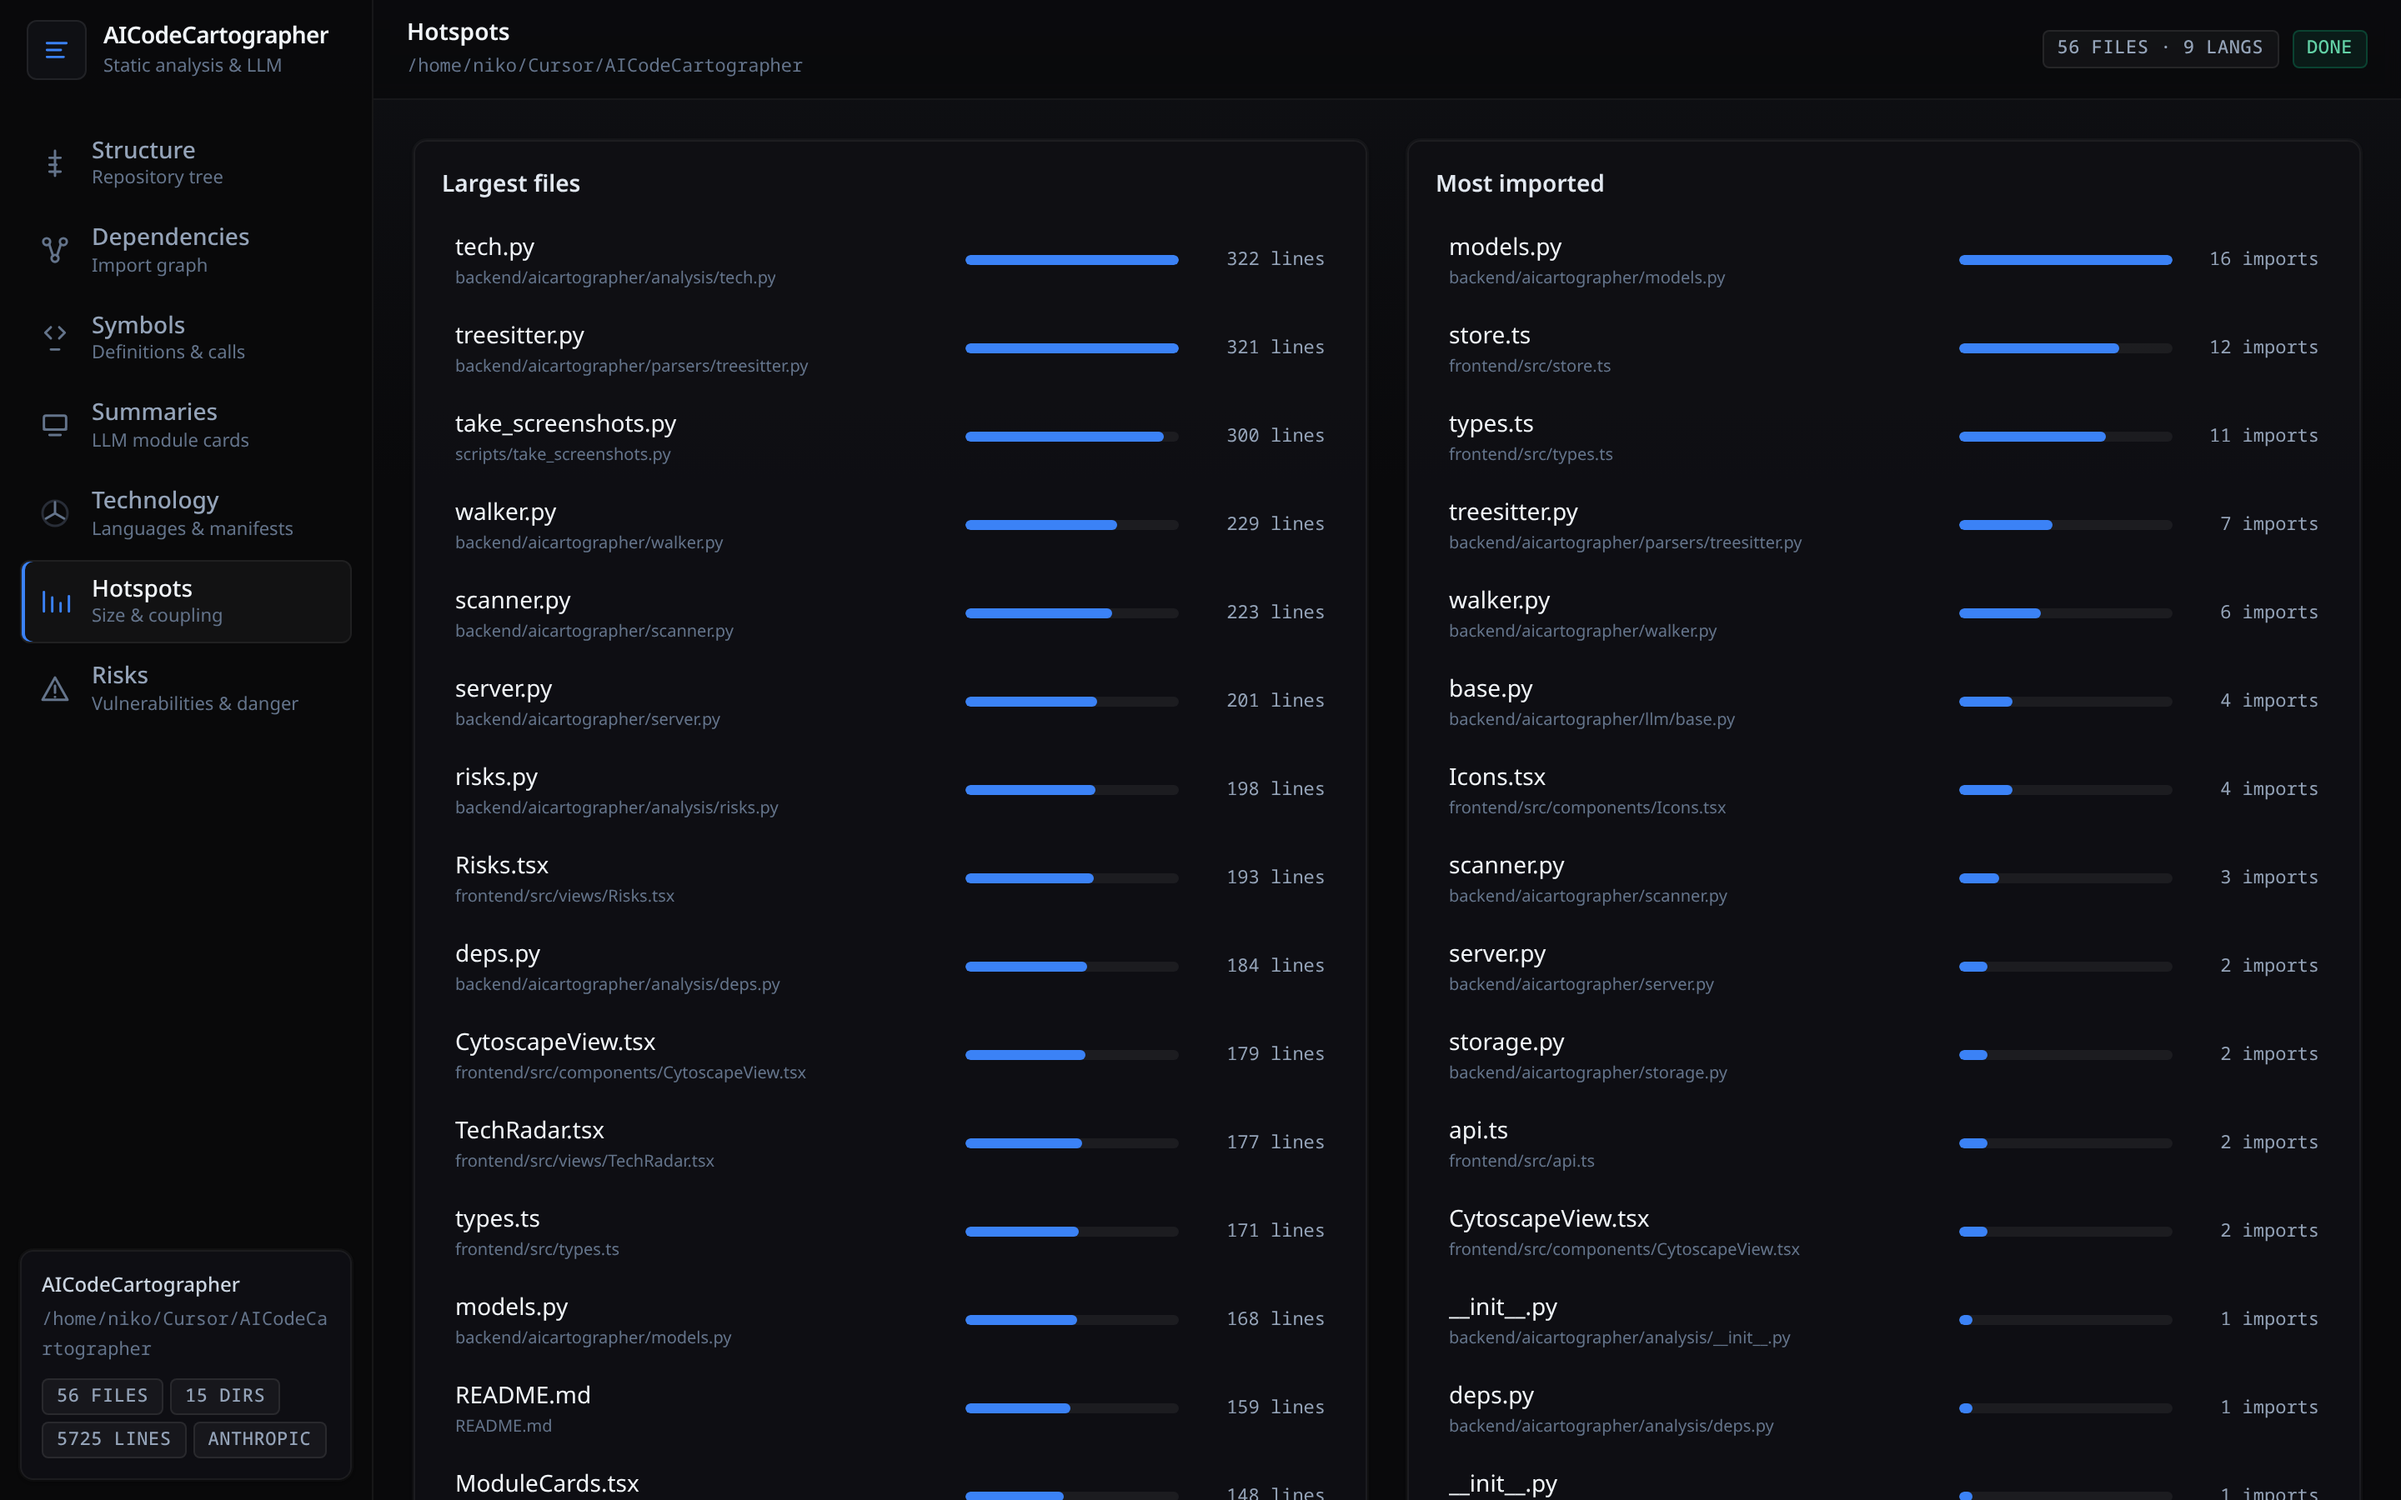
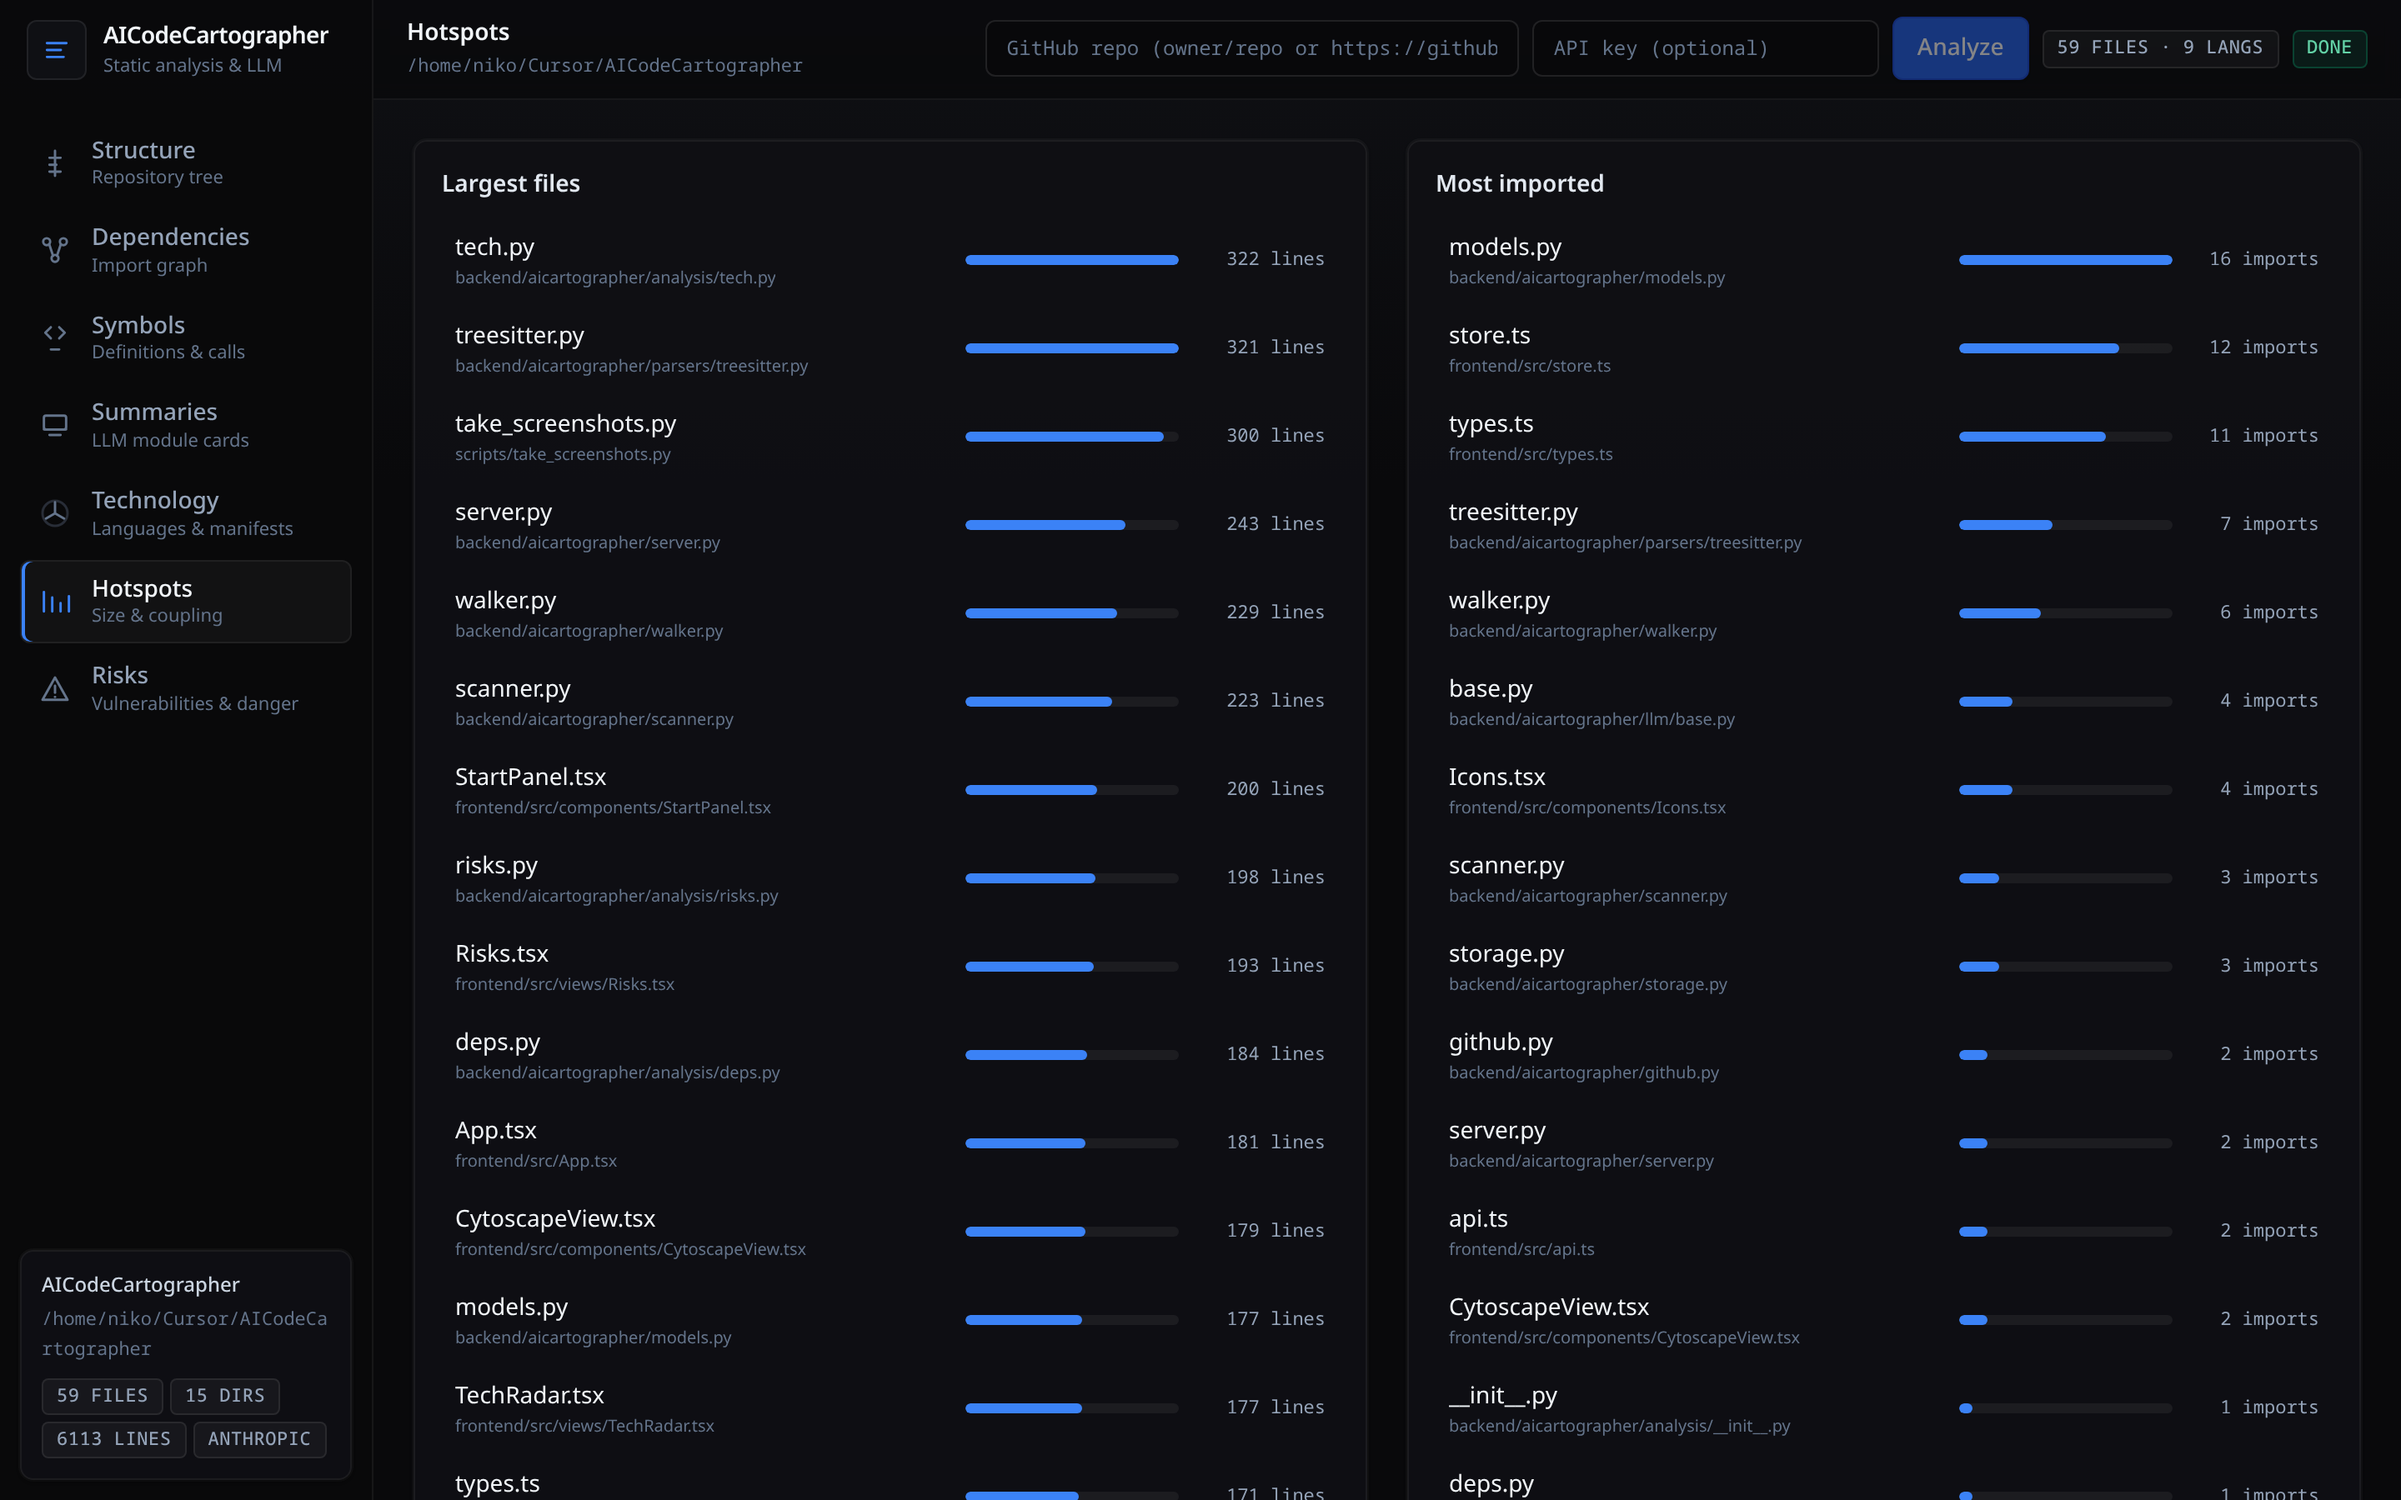
docs: refresh screenshots and document GitHub scans + UI API keys
- Regenerate docs/screenshots for the current UI.
- Document scanning public GitHub repos via owner/repo or URL (clone cache under
  AICARTOGRAPHER_HOME/clones).
- Support passing Anthropic/OpenAI API keys from the UI per scan (optional,
  stored locally in the browser).

diff --git a/frontend/src/store.ts b/frontend/src/store.ts
@@ -36,7 +36,7 @@ interface State {
   setView: (view: ViewKey) => void;
   setSelected: (path: string | null) => void;
   attachToScan: (scanId: string) => Promise<void>;
-  startRepoScan: (repo: string) => Promise<void>;
+  startRepoScan: (repo: string, apiKey?: string | null) => Promise<void>;
   reloadArtifacts: () => Promise<void>;
 }
 
@@ -107,8 +107,8 @@ export const useStore = create<State>((set, get) => ({
     }
   },
 
-  startRepoScan: async (repo: string) => {
-    const status = await api.startScanFromRepo({ repo, llm: "none" });
+  startRepoScan: async (repo: string, apiKey?: string | null) => {
+    const status = await api.startScanFromRepo({ repo, llm: "none", api_key: apiKey ?? null });
     const url = new URL(window.location.href);
     url.searchParams.set("scan", status.scan_id);
     window.history.replaceState({}, "", url);

diff --git a/frontend/src/api.ts b/frontend/src/api.ts
@@ -28,6 +28,7 @@ export const api = {
     llm: string;
     model?: string | null;
     max_files?: number | null;
+    api_key?: string | null;
   }): Promise<ScanStatus> => {
     const r = await fetch(`${API_BASE}/api/scans`, {
       method: "POST",
@@ -42,6 +43,7 @@ export const api = {
     llm: string;
     model?: string | null;
     max_files?: number | null;
+    api_key?: string | null;
   }): Promise<ScanStatus> => {
     const r = await fetch(`${API_BASE}/api/scans/from-repo`, {
       method: "POST",

diff --git a/backend/aicartographer/llm/pipeline.py b/backend/aicartographer/llm/pipeline.py
@@ -26,15 +26,15 @@ CONCURRENCY = 4
 SKIP_LANGS = {None, "json", "yaml", "toml", "markdown", "html", "css", "scss"}
 
 
-def _select_provider(kind: LLMKind, model: str | None) -> LLMProvider | None:
+def _select_provider(kind: LLMKind, model: str | None, api_key: str | None) -> LLMProvider | None:
     if kind == "anthropic":
         from .anthropic_provider import AnthropicProvider
 
-        return AnthropicProvider(model=model)
+        return AnthropicProvider(model=model, api_key=api_key)
     if kind == "openai":
         from .openai_provider import OpenAIProvider
 
-        return OpenAIProvider(model=model)
+        return OpenAIProvider(model=model, api_key=api_key)
     if kind == "ollama":
         from .ollama_provider import OllamaProvider
 
@@ -79,7 +79,7 @@ async def run_llm_pipeline(record: ScanRecord, request: ScanRequest) -> None:
     if request.llm == "none":
         return
     try:
-        provider = _select_provider(request.llm, request.model)
+        provider = _select_provider(request.llm, request.model, request.api_key)
     except Exception as exc:  # noqa: BLE001
         log.exception("provider init failed")
         record.status.error = f"LLM init failed: {exc}"

diff --git a/backend/aicartographer/llm/anthropic_provider.py b/backend/aicartographer/llm/anthropic_provider.py
@@ -15,14 +15,14 @@ DEFAULT_MODEL = "claude-3-5-haiku-latest"
 class AnthropicProvider:
     name = "anthropic"
 
-    def __init__(self, model: str | None = None) -> None:
+    def __init__(self, model: str | None = None, api_key: str | None = None) -> None:
         try:
             import anthropic  # type: ignore[import-not-found]
         except ImportError as exc:  # pragma: no cover
             raise RuntimeError(
                 "anthropic package not installed. Run `pip install aicartographer[anthropic]`."
             ) from exc
-        api_key = env("ANTHROPIC_API_KEY")
+        api_key = api_key or env("ANTHROPIC_API_KEY")
         if not api_key:
             raise RuntimeError("ANTHROPIC_API_KEY is not set.")
         self.client: Any = anthropic.AsyncAnthropic(api_key=api_key)

diff --git a/backend/aicartographer/llm/openai_provider.py b/backend/aicartographer/llm/openai_provider.py
@@ -15,14 +15,14 @@ DEFAULT_MODEL = "gpt-4o-mini"
 class OpenAIProvider:
     name = "openai"
 
-    def __init__(self, model: str | None = None) -> None:
+    def __init__(self, model: str | None = None, api_key: str | None = None) -> None:
         try:
             import openai  # type: ignore[import-not-found]
         except ImportError as exc:  # pragma: no cover
             raise RuntimeError(
                 "openai package not installed. Run `pip install aicartographer[openai]`."
             ) from exc
-        api_key = env("OPENAI_API_KEY")
+        api_key = api_key or env("OPENAI_API_KEY")
         if not api_key:
             raise RuntimeError("OPENAI_API_KEY is not set.")
         self.client: Any = openai.AsyncOpenAI(api_key=api_key)

diff --git a/backend/aicartographer/models.py b/backend/aicartographer/models.py
@@ -16,6 +16,7 @@ class ScanRequest(BaseModel):
     llm: LLMKind = "none"
     model: str | None = None
     max_files: int | None = Field(default=None, ge=1)
+    api_key: str | None = None
 
 
 class ScanFromRepoRequest(BaseModel):
@@ -23,6 +24,7 @@ class ScanFromRepoRequest(BaseModel):
     llm: LLMKind = "none"
     model: str | None = None
     max_files: int | None = Field(default=None, ge=1)
+    api_key: str | None = None
 
 
 class ScanProgress(BaseModel):

diff --git a/README.md b/README.md
@@ -82,6 +82,13 @@ This starts a local FastAPI server, kicks off the scan, and opens
 `http://localhost:<port>/?scan=<id>` in your browser. The dashboard updates
 live via Server-Sent Events as the scan progresses.
 
+You can also paste a public GitHub repo into the UI (Start panel or top header bar):
+
+- `owner/repo`
+- `https://github.com/owner/repo`
+
+The backend will clone into `AICARTOGRAPHER_HOME/clones/` (or `~/.aicartographer/clones/`) and scan the local working copy.
+
 To enable AI module cards, pick a provider:
 
 ```bash
@@ -96,6 +103,8 @@ aicartographer scan ./repo --llm openai --model gpt-4o-mini
 # Ollama (private, local, no API key)
 aicartographer scan ./repo --llm ollama --model llama3.1
 ```
+
+If you prefer, you can enter an API key directly in the UI (stored locally in your browser) instead of using environment variables.
 
 Other useful flags:
 
